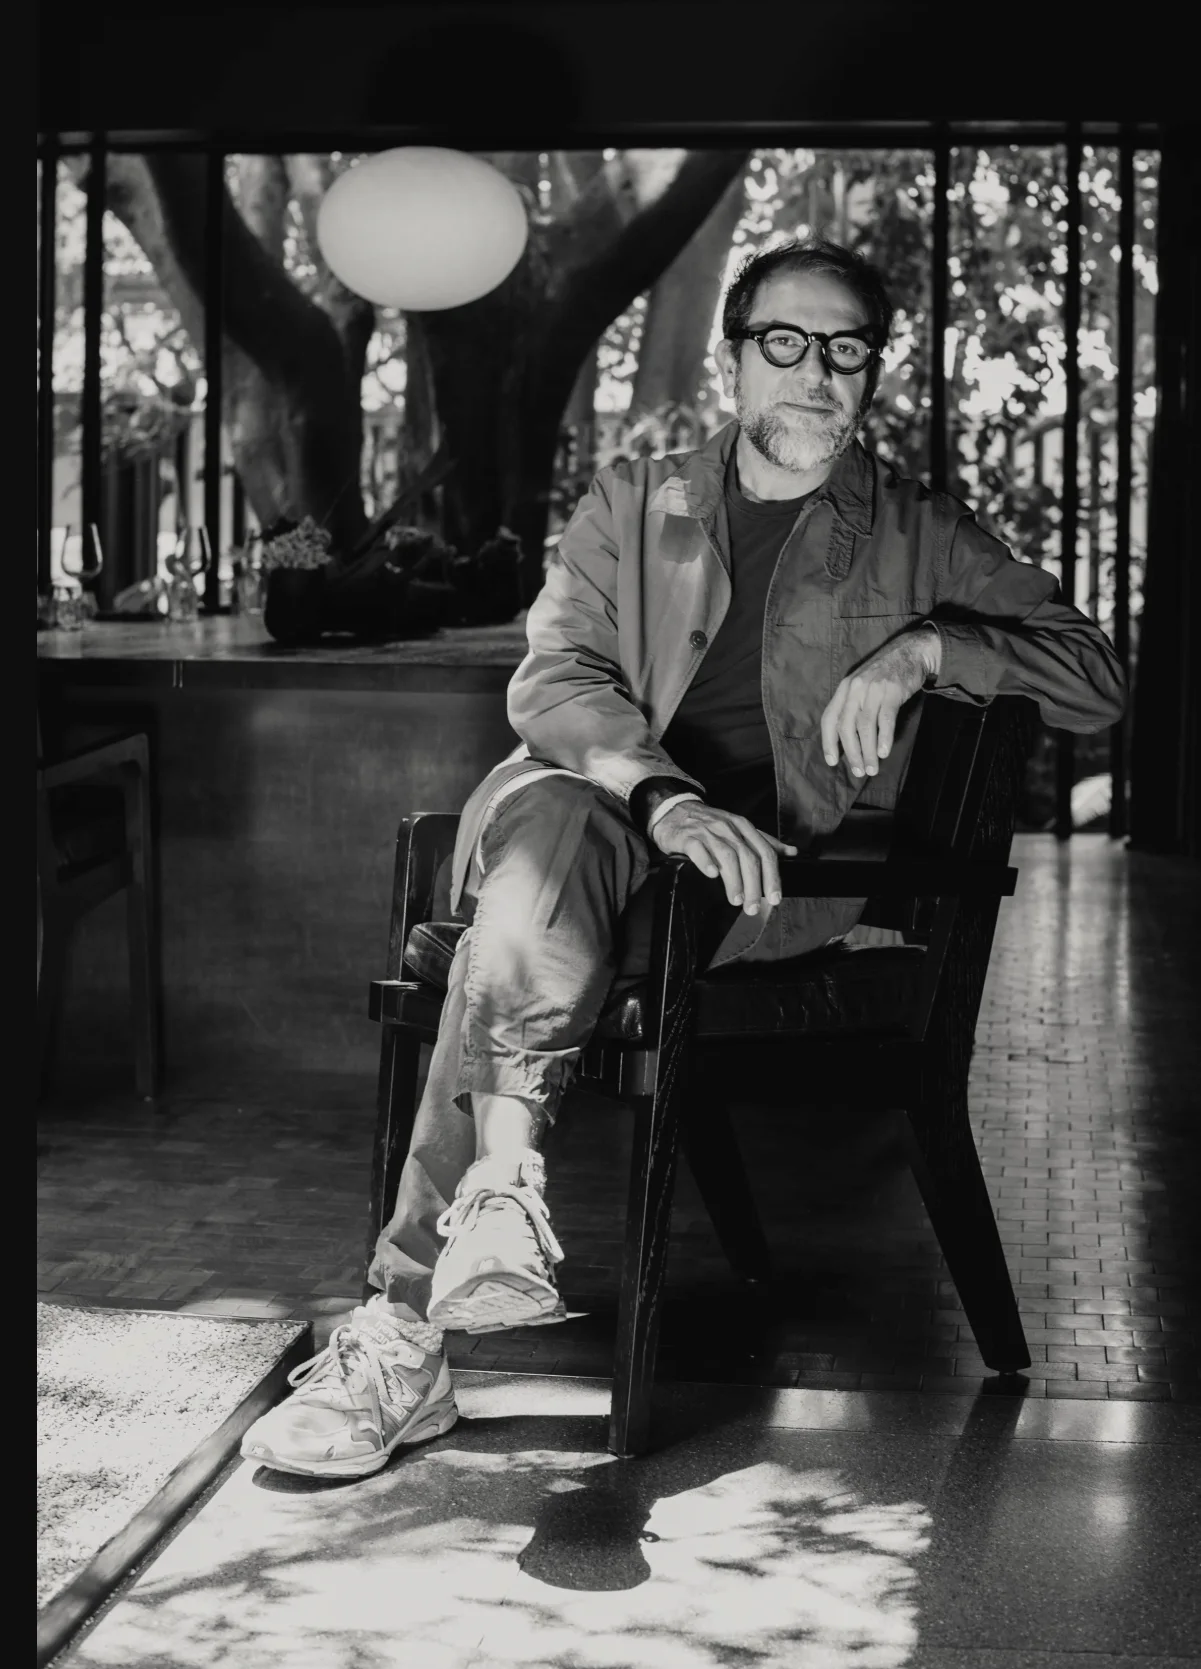
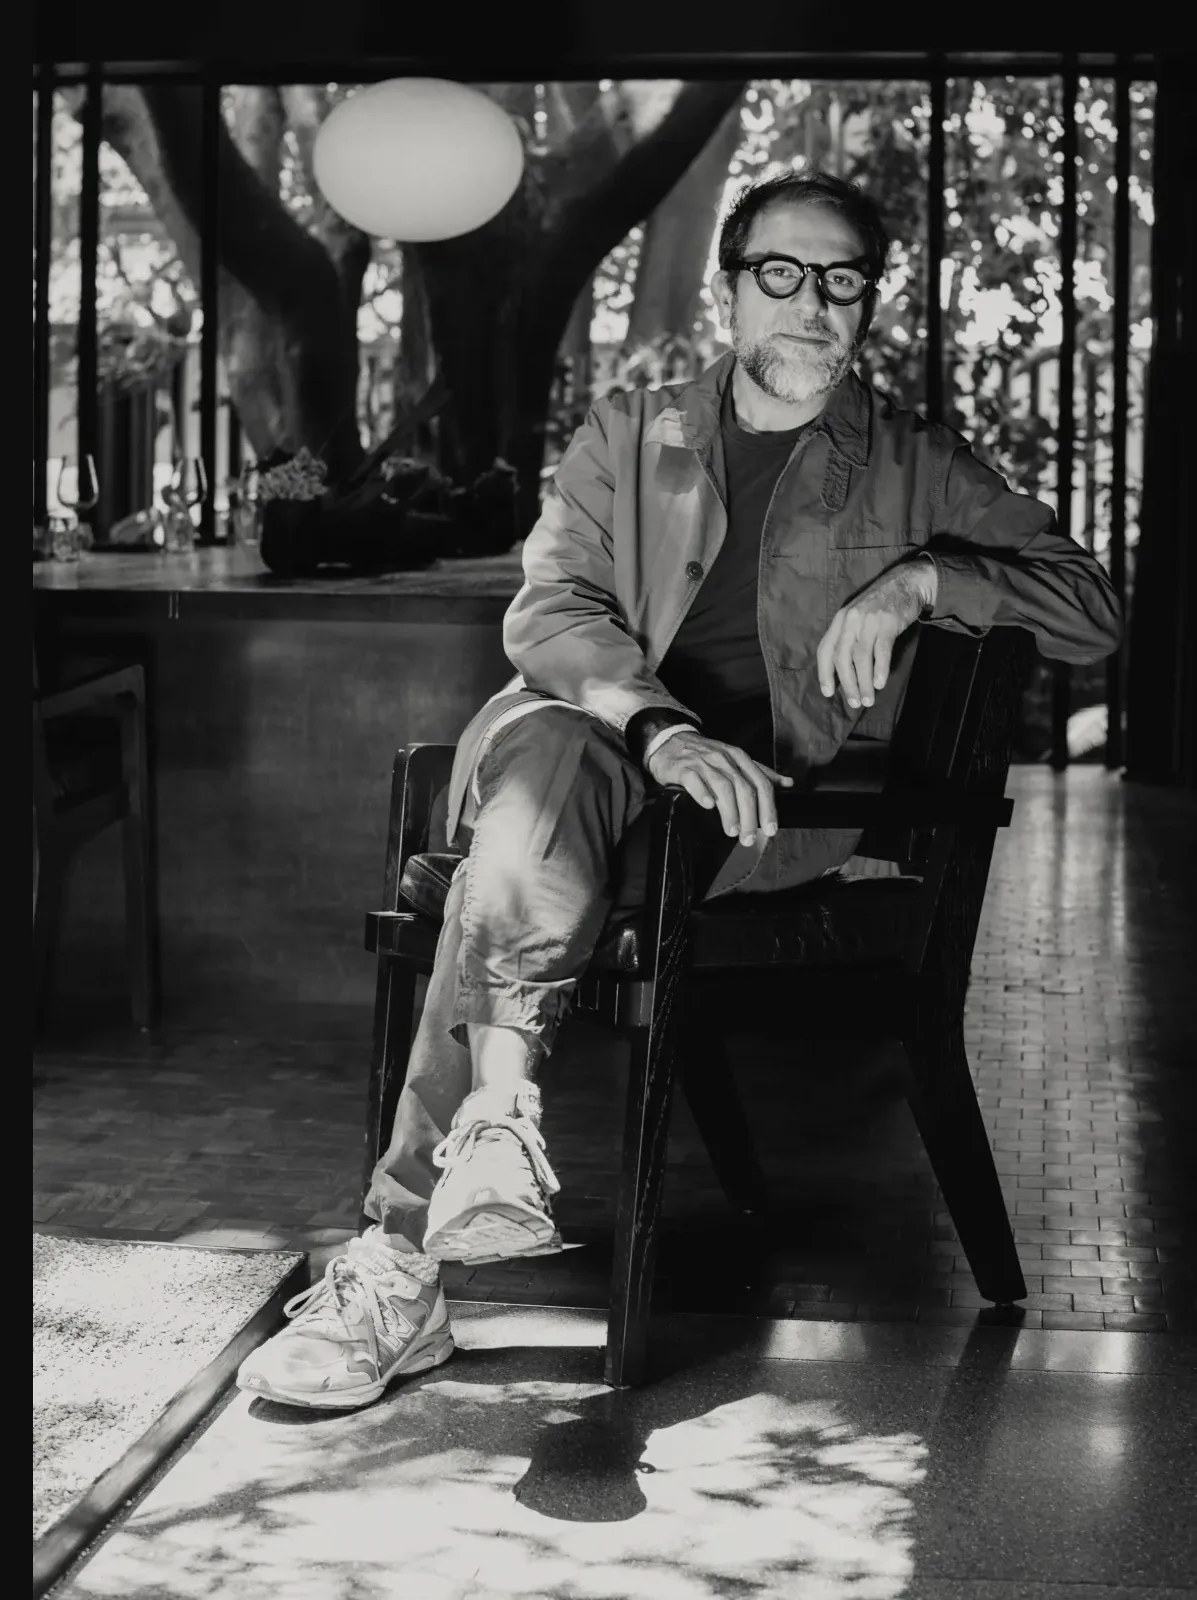
Fix about portrait aspect ratio

diff --git a/public/styles.css b/public/styles.css
@@ -762,7 +762,9 @@ body.home .colophon,
 }
 .about__portrait {
   position: relative;
-  height: 762px;
+  width: 100%;
+  aspect-ratio: 1197 / 1600;
+  height: auto;
   overflow: hidden;
   background: #ececec;
 }
@@ -771,7 +773,7 @@ body.home .colophon,
   position: absolute; right: 1rem; bottom: 1rem;
   text-align: right;
   font-family: var(--sans); font-size: .62rem; letter-spacing: .12em; text-transform: uppercase;
-  color: var(--ink);
+  color: #fff;
 }
 @media (max-width: 880px) {
   .about { grid-template-columns: 1fr; }
@@ -1305,9 +1307,11 @@ html { scroll-behavior: smooth; }
     width: 100%;
     margin-left: 0;
     margin-right: 0;
-    height: 620px;
+    aspect-ratio: 1197 / 1600;
+    height: auto;
   }
   .about__photo {
+    object-fit: cover;
     object-position: 50% 50%;
   }
   .about__credit {
